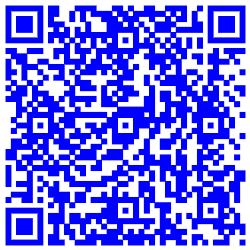
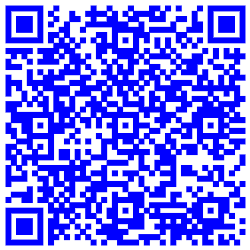
zarinpal link on recharge

diff --git a/app/Http/Controllers/TelegramController.php b/app/Http/Controllers/TelegramController.php
@@ -1,5 +1,5 @@
 <?php
-// https://api.telegram.org/bot7449013530:AAGR7wNtSKSmYEeH4RehIb3lq-nz3Q1TKg4/setwebhook?url=https://badb-46-226-165-205.ngrok-free.app/api/telegram/webhooks/inbound
+// https://api.telegram.org/bot7449013530:AAGR7wNtSKSmYEeH4RehIb3lq-nz3Q1TKg4/setwebhook?url=https://8704-46-226-165-205.ngrok-free.app/api/telegram/webhooks/inbound
 // https://api.telegram.org/bot6650381860:AAFCJka-B2NsIY5RlATIOQvlXiOpKdDqUlM/setwebhook?url=https://laravel-rq3qi6.chbk.run/api/telegram/webhooks/inbound
 // in /start command, why $this->stickyMenu() run twice
 
@@ -88,6 +88,7 @@ class TelegramController extends Controller
 
                     // $imageTrCntrl->addNewTransactionImage($request);
                     $imageTrCntrl->saveNewTransactionImage($request);
+                    \Log::info('oneeeeee');
                     return response()->json($result, 200);
                 } elseif (isset($request->message)) {
                     $this->from_id = $request->message['from']['id'];
@@ -105,6 +106,7 @@ class TelegramController extends Controller
 
                     $result = $this->recogniseTextMessage();
 
+                    \Log::info('two');
                     return response()->json($result, 200);
                 } elseif (isset($request->callback_query)) {
                     $this->callbackId = $request->callback_query['id'];
@@ -125,6 +127,7 @@ class TelegramController extends Controller
                     $result = $this->changeMenuLevel();
                     return response()->json($result, 200);
                 }
+                \Log::info('last else');
                 return $this->stickyMenu();
             } catch (\Throwable $th) {
                 \Log::info("Throwable:  $th");
@@ -580,6 +583,7 @@ class TelegramController extends Controller
         $prCat = new ProductCategoryController();
 
         $id = $this->userCommandArr[1];
+        \Log::info("userCommandArr: $id");
 
         $selectedPrCat = $prCat->getProdctCategoryNameByID($this->userCommandArr[1]);
         $this->addNewBotLog('subscription', "بسته $selectedPrCat->category_name را انتخاب کرد.", 'buy subscription');
@@ -587,6 +591,7 @@ class TelegramController extends Controller
         // check user account balance
         $productPrice = $selectedPrCat->price;
         $productPriceInDollar = $selectedPrCat->price_in_dollar;
+        \Log::info("selectedPrCat->price: $productPrice");
         $opr = [];
         $accBlCtrl = new AccountBallanceController();
         $prCntrl = new ProductController();
@@ -739,27 +744,48 @@ class TelegramController extends Controller
                 $this->addNewBotLog('ballance', "مبلغ  $productPrice را از کیف پول همکاری شما بابت شارژ بسته کم شد.", 'minus ballance');
             }
 
+            // $accBlCtrl->decUserAccuntBalance($this->chat_id, $productPrice, $productPriceInDollar);
+
+            // $this->addNewBotLog('ballance', "مبلغ  $productPrice را از حساب کاربری بابت خرید بسته کم شد.", 'minus ballance');
+
             // send how to use
-            $botGnrlCntrl = new BotGeneralController();
-            $result = $botGnrlCntrl->howToUse($this->chat_id);
+            $opr = [];
+            array_push($opr, [
+                [
+                    'text' => 'آموزش استفاده',
+                    'callback_data' => 'help-faqs',
+                ],
+            ]);
+            array_push($opr, [
+                [
+                    'text' => 'برنامه های مورد نیاز',
+                    'callback_data' => 'help-appDownload',
+                ],
+            ]);
+            $text = 'یک گزینه را انتخاب کنید.';
+            $result = app('telegram_bot')->commandMessage($opr, $this->chat_id, $text);
 
             return response()->json($result, 200);
         } else {
             $userAccouintBallance = $accBlCtrl->getUserAccuntBalance($this->chat_id);
             $userAccouintBallanceInDollar = $accBlCtrl->getUserAccuntBalanceInDollar($this->chat_id);
+
             // get item price
             $estimatedPrice = $productPrice - $userAccouintBallance;
+            // calculate estimated price in dollar
             $estimatedPriceInDollar = $productPriceInDollar - $userAccouintBallanceInDollar;
 
+            // create link
             $text = "موجودی شما کم تر از قیمت بسته انتخابی می باشد. لطفا حساب خود را شارژ بفرمایید. \r\n";
             $text .= "موجودی حساب شما: $userAccouintBallance تومان  \r\n";
             $text .= "موجودی مورد نیاز: $productPrice تومان  \r\n";
             $text .= "میزان مبلغ مورد نیاز برای شارژ حساب: $estimatedPrice تومان  \r\n";
 
-            $result = app('telegram_bot')->commandMessage($opr, $this->chat_id, $text);
-            $botGnrlCntrl = new BotGeneralController();
+            $resualt = app('telegram_bot')->sendMessage($text, $this->chat_id, null, 'MarkDown');
 
-            $result = $botGnrlCntrl->increase_account_ballance_menu_on_low_balance($this->chat_id, $estimatedPrice, $estimatedPriceInDollar);
+            $botGeneralCntrl = new BotGeneralController();
+            $result= $botGeneralCntrl->increase_account_ballance_menu_on_low_balance($this->chat_id, $estimatedPrice, $estimatedPriceInDollar);
+
             $this->addNewBotLog('subscription', 'موجودی کیف پول کاربر برای حرید بسته کافی نبود.', 'low account ballance');
 
             return response()->json($result, 200);
@@ -906,6 +932,13 @@ class TelegramController extends Controller
                         'url' => "$nowpaymentLink",
                     ],
                 ]);
+                // array_push($opr, [
+                //     [
+                //         'text' => 'پرداخت آنلاین',
+                //         'url' => "$openLink/$this->chat_id/$bill->bill_id/$amount",
+                //     ],
+                // ]);
+                $this->addNewBotLog('ballance', "صورتحساب به مبلغ $amount برای پرداهت از طریق درگاه زرین پال برای کاربر ارسال شد.", 'show');
 
                 $result = app('telegram_bot')->inlineKeyboardButton($text, $opr, $this->chat_id, '');
             } else {
@@ -1268,28 +1301,18 @@ class TelegramController extends Controller
                         'callback_data' => "main-{$menuItem->id}",
                     ],
                 ]);
-
-                // array_push($opr, [
-                //     [
-                //         'text' => 'بازگشت به منوی اصلی',
-                //         'callback_data' => 'main menu',
-                //     ],
-                // ]);
                 $text = 'یک گزینه را انتخاب کنید.';
                 $result = app('telegram_bot')->commandMessage($opr, $this->chat_id, $text);
 
                 return response()->json($resualt, 200);
             } else {
                 $userAccouintBallance = $accBlCtrl->getUserAccuntBalance($this->chat_id);
+                $userAccouintBallanceInDollar = $accBlCtrl->getUserAccuntBalanceInDollar($this->chat_id);
                 // get item price
                 $estimatedPrice = $productPrice - $userAccouintBallance;
+                // calculate estimated price in dollar
+                $estimatedPriceInDollar = $productPriceInDollar - $userAccouintBallanceInDollar;
 
-                // create new invoice
-                $billCntrl = new BillController();
-                $request = new Request();
-                $request->account_id = $this->chat_id;
-                $request->amount = $estimatedPrice;
-                $bill = $billCntrl->createNewBill($request);
                 // create link
                 $text = "موجودی شما کم تر از قیمت بسته انتخابی می باشد. لطفا حساب خود را شارژ بفرمایید. \r\n";
                 $text .= "موجودی حساب شما: $userAccouintBallance تومان  \r\n";
@@ -1299,43 +1322,9 @@ class TelegramController extends Controller
                 // $result = app('telegram_bot')->commandMessage($opr, $this->chat_id, $text);
                 $resualt = app('telegram_bot')->sendMessage($text, $this->chat_id, null, 'MarkDown');
 
-                $pymCntrl = new PaymentTypeController();
-                $hasZarinPal = $pymCntrl->getZarinpalStatus();
-                if ($hasZarinPal == true) {
-                    // send link
-                    $opr = [];
+                $botGeneralCntrl = new BotGeneralController();
+                $result=  $botGeneralCntrl->increase_account_ballance_menu_on_low_balance($this->chat_id, $estimatedPrice, $estimatedPriceInDollar);
 
-                    $openLink = $pymCntrl->getZarinpalLink();
-                    $text = "پرداخت مبلغ $estimatedPrice تومان از طریق درگاه آنلاین \r\n";
-
-                    array_push($opr, [
-                        [
-                            'text' => 'پرداخت آنلاین',
-                            'url' => "$openLink/$this->chat_id/$bill->bill_id/$bill->amount",
-                        ],
-                    ]);
-                    $result = app('telegram_bot')->inlineKeyboardButton($text, $opr, $this->chat_id, '');
-                }
-
-                // send offline item
-                $offlinePayment = $pymCntrl->getAllActiveOfflinePaymentTypes();
-                if ($offlinePayment != null) {
-                    $pymMenCntrl = new PaymentMenuItemController();
-                    if ($hasZarinPal == true) {
-                        $text = 'همچنین می توانید با انتخاب یکی از گزینه های زیر نسبت به پرداخت اقدام نمایید.';
-                    } else {
-                        // $text = $pymMenCntrl->getPaymentTypeMainMenuTitle();
-                        $mainMenu = $pymMenCntrl->getPaymentTypeMainMenuTitle();
-                        $text = $mainMenu->alias_name;
-                    }
-
-                    $opr = [];
-                    foreach ($offlinePayment as $key => $value) {
-                        array_push($opr, [['text' => "$value->name", 'callback_data' => "subAccountBalance-$value->id "]]);
-                    }
-
-                    $result = app('telegram_bot')->commandMessage($opr, $this->chat_id, $text);
-                }
                 $this->addNewBotLog('subscription', 'موجودی کیف پول کاربر برای حرید بسته کافی نبود.', 'low account ballance');
 
                 return response()->json($result, 200);

diff --git a/app/Http/Controllers/BotGeneralController.php b/app/Http/Controllers/BotGeneralController.php
@@ -72,6 +72,7 @@ class BotGeneralController extends Controller
             if ($hasZarinPal == true || $hasZarinPal == 1) {
                 // send link
 
+                // $openLink = "https://googloooli.com";
                 $openLink = $pymCntrl->getZarinpalLink();
 
                 /////
@@ -83,9 +84,8 @@ class BotGeneralController extends Controller
                 $paymentLink = $trCntrl->add_order($trRequest);
 
                 $generalCntrl = new GeneralController();
-                // $zarinPal = $generalCntrl->get_zarinpal_payment_link_from_html($paymentLink);
+                 $zarinPal = $generalCntrl->get_zarinpal_payment_link_from_html($paymentLink);
 
-                $zarinPal = 'https://googooli.com';
 
                 //
 
